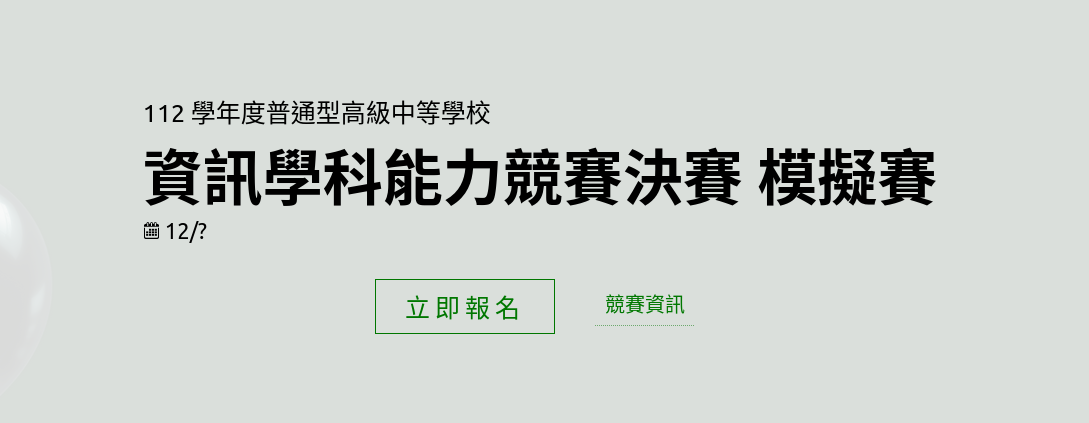
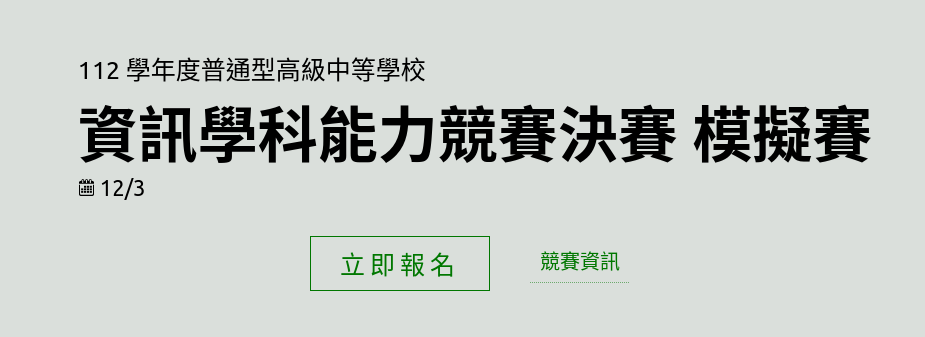
announce schedule

diff --git a/2023/index.html b/2023/index.html
@@ -16,7 +16,7 @@
     <meta property="og:title" content="112 學年度 全國資訊學科能力競賽模擬賽">
     <meta property="og:type" content="website">
     <meta property="og:image" content="https://nhspc.cc/2023/imgs/og.png">
-    <meta property="og:description" content="2023 12/? | 高中以下學生皆可報名 | 112 學年度 全國資訊學科能力競賽模擬賽">
+    <meta property="og:description" content="2023 12/3 | 高中以下學生皆可報名 | 112 學年度 全國資訊學科能力競賽模擬賽">
     <title>112 學年度 全國資訊學科能力競賽模擬賽</title>
     <meta name="description" content="112 學年度 全國資訊學科能力競賽模擬賽">
     <link rel="icon" type="image/png" sizes="32x32" href="./imgs/favicon-32x32.png">
@@ -263,7 +263,7 @@ main {
         <div id="title-div" class="">
             <span class="no-break" id="title-row1">112 學年度普通型高級中等學校</span><br>
             <span class="no-break" id="title-row2">資訊學科能力競賽決賽 模擬賽</span><br>
-            <span class="no-break" id="title-row3"><img id="calendar-icon" src="./imgs/calendar-from-flaticon.svg"> 12/? </span>
+            <span class="no-break" id="title-row3"><img id="calendar-icon" src="./imgs/calendar-from-flaticon.svg"> 12/3 </span>
         </div>
         <div id="btn-div">
             <a href="https://forms.gle/96sAYZcyuSLXwapE8" target="_blank" id="enroll-btn">立即報名</a>
@@ -279,14 +279,12 @@ main {
                 <ul>
                     <li>即日起開放報名</li>
                     <li><b>11/26（日）晚上 11:59 報名截止</b></li>
-                    <li>12/? 晚上前寄送比賽通知</li>
-                    <li>12/? 參賽者系統測試</li>
-                    <li>12/? 模擬賽</li>
-                    <!-- <li>12/? 11:00-22:00 參賽者系統測試</li> -->
-                    <!-- <li>12/? 9:00-14:00 模擬賽</li> -->
+                    <li>11/29（三） 晚上前寄送比賽通知</li>
+                    <li>11/30（四）～12/2（六） 17:00-24:00 參賽者系統測試</li>
+                    <li>12/3（日）9:00-14:00 模擬賽</li>
                 </ul>
                 <div class="section-title">競賽規則</div>
-                <p>此次模擬賽規則將會盡量符合「111 學年度普通型高級中等學校資訊學科能力競賽決賽」之規則，其中重點規則如下：</p>
+                <p>此次模擬賽規則將會盡量符合「112 學年度普通型高級中等學校資訊學科能力競賽決賽」之規則，本競賽重點規則如下：</p>
                 <ul>
                     <li>報名資格為<b>目前就讀高中職以下，不論有無參加全國賽者皆可報名。</b></li>
                     <li>競賽採電腦自動評測，程式必須依規定上傳至評分主機。</li>
